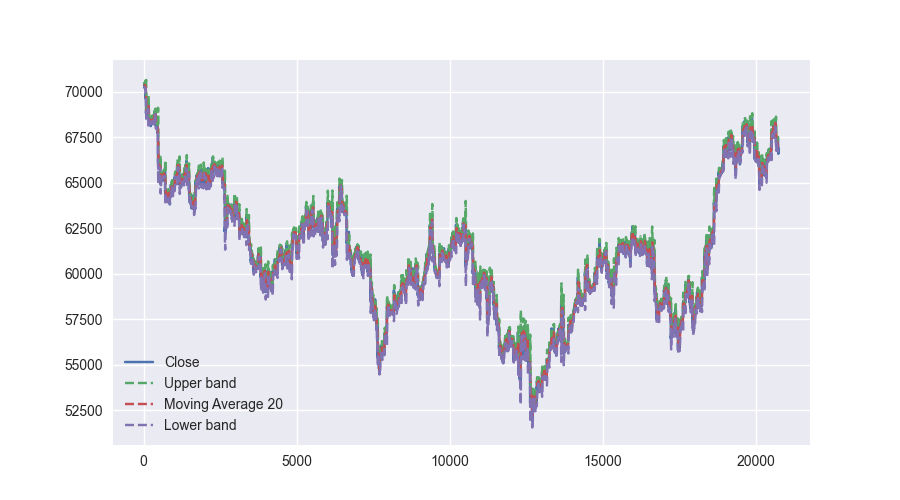
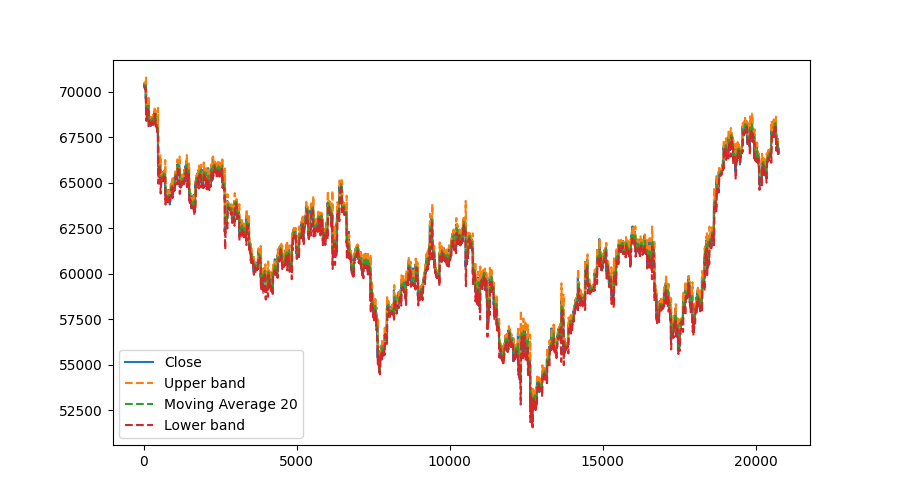
[ADD] 원하는 만큼 차트데이터 받아오기

diff --git a/kiwoom.py b/kiwoom.py
@@ -20,6 +20,7 @@ class Kiwoom:
     def __init__(self):
 
         self.remained_data = False  #차트데이터 요청할때 sPrevNext가 2이면 계속
+        self.want_data_count = None    #차트데이터 요청할때 900개씩 몇번 요청할지
         self.login_event_loop = None
         self.tr_event_loop = None
         self.ocx = None
@@ -97,7 +98,8 @@ class Kiwoom:
         '''
 
         # view.print_receive_trdata_element( sScrNo, sRQName, sTrCode, sRecordName, sPrevNext)
-        if sPrevNext == "2":
+
+        if sPrevNext == "2" and self.want_data_count != 0:
             self.remained_data = True
         else:
             self.remained_data = False
@@ -114,8 +116,11 @@ class Kiwoom:
         elif sRQName == "주식분봉차트조회요청":
             data_list = self.receive_market_price.receive_minutes_chart_data(sTrCode, sRQName, sRecordName)
             self.result_list += data_list
-            if not self.remained_data:
+
+            if not self.remained_data or self.want_data_count == 0:
+                self.want_data_count = None
                 plot_bollinger_bands(self.result_list)
+                self.result_list.clear()
 
         elif sRQName == "주식일봉차트조회요청":
             self.receive_market_price.receive_day_chart_data(sTrCode, sRQName, sRecordName)

diff --git a/market/stick_data_sender.py b/market/stick_data_sender.py
@@ -1,6 +1,7 @@
 from kiwoom import Kiwoom
 import time
 
+
 class Kiwoom_Price:
 
     def __init__(self, main_kiwoom):
@@ -12,13 +13,21 @@ class Kiwoom_Price:
         Kiwoom.set_input_value(self.Kiwoom, "틱범위", minute_type)
         Kiwoom.set_input_value(self.Kiwoom, "수정주가구분", "0")
         Kiwoom.send_comm_rq_data(self.Kiwoom, "주식분봉차트조회요청", "opt10080", 0, "2000")
-
-        while self.Kiwoom.remained_data:
+        data_count -= 1
+        print("첫번째 보냄")
+        if data_count == 0:
+            print("wnat값 0설정")
+            self.Kiwoom.want_data_count = 0  # count가 0일경우 또는 remain_data가 0일때 종료해야함
+        while self.Kiwoom.remained_data and data_count > 0:
+            print("두번째 보냄")
             time.sleep(0.2)
+            data_count -= 1
             Kiwoom.set_input_value(self.Kiwoom, "종목코드", item_code)
             Kiwoom.set_input_value(self.Kiwoom, "틱범위", minute_type)
             Kiwoom.set_input_value(self.Kiwoom, "수정주가구분", "0")
             Kiwoom.send_comm_rq_data(self.Kiwoom, "주식분봉차트조회요청", "opt10080", 2, "2000")
+            self.Kiwoom.want_data_count = data_count
+
 
     # 일봉차트 조회
     def send_day_chart_data(self, item_code, start_date):

diff --git a/main.py b/main.py
@@ -34,7 +34,7 @@ class TradingBot():
             elif n == 6: # 계좌별주문체결내역상세요청
                 self.kiwoom_account.send_trading_record(30, constants.ACCOUNT, "1", "0", "")
             elif n == 7: # 주식분봉차트조회요청
-                self.kiwoom_price.send_minutes_chart_data(constants.SAMSUNG_CODE, "5", 0)
+                self.kiwoom_price.send_minutes_chart_data(constants.SAMSUNG_CODE, "5",5)
             elif n == 8:  # 주식일봉차트조회요청
                 self.kiwoom_price.send_day_chart_data(constants.SAMSUNG_CODE, "20230413")
             elif n == 9: # 주식주봉차트조회요청

diff --git a/market/stick_data_receiver.py b/market/stick_data_receiver.py
@@ -11,8 +11,10 @@ class Kiwoom_Receive_Market_price:
     #분봉차트 값 받기
     def receive_minutes_chart_data(self,sTrCode, sRQName, sRecordName):
         repeat = self.Kiwoom.get_repeat_cnt(sTrCode, sRQName)
+        
 
         received_data = []
+        print(repeat)
         for i in range(repeat):
             current_price = int(self.Kiwoom.get_comm_data(sTrCode, sRecordName, i, "현재가").strip())
             volume = int(self.Kiwoom.get_comm_data(sTrCode, sRecordName, i, "거래량").strip())

diff --git a/backtesting/backtest.py b/backtesting/backtest.py
@@ -14,6 +14,7 @@ def plot_bollinger_bands(data_list, n=20, k=2):
     df = df[n - 1:].copy()
 
     print(df)
+
     plt.figure(figsize=(9, 5))
     plt.plot(df.index, df['current'], label='Close')
     plt.plot(df.index, df['upperb'], linestyle='dashed', label='Upper band')
